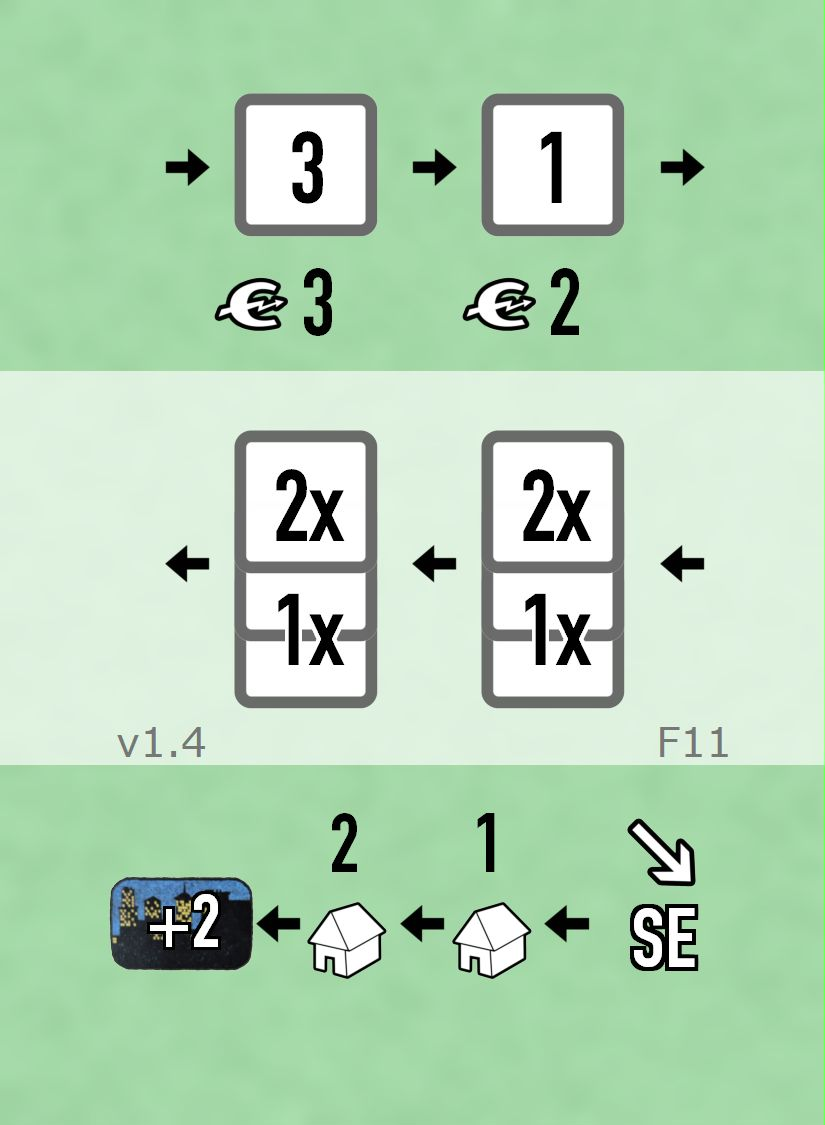
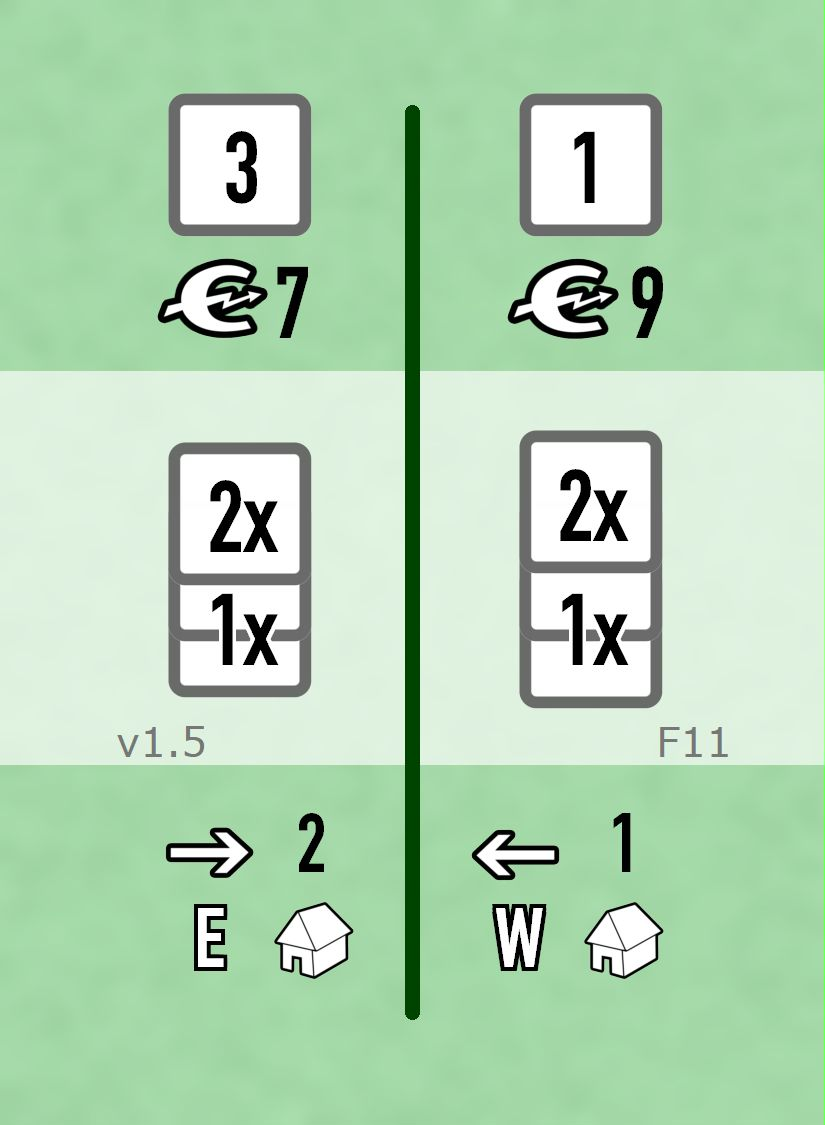
New ruleset to try IRL. Completely breaks the simulator

diff --git a/src/bin/analyze.py b/src/bin/analyze.py
@@ -41,7 +41,7 @@ def analyze_board(map):
         'player_count_report': player_details
     })
 
-def count_turns(deck):
+def count_turns(build_index,deck):
     deck.pop()
     deck.pop()
     deck.pop()
@@ -52,20 +52,20 @@ def count_turns(deck):
     build_count = 0
     while current_score < end_game_score:
         card = deck[card_index % len(deck)]
-        current_score += card.score
-        build_count += card.build_count
+        current_score += card.city_build[build_index]
+        build_count += card.city_build[build_index]
         card_index += 1
         turns += 1
     return turns,build_count
 
 def analyze_automa():
     cards = [model.AutomaCard(xx) for xx in generate.create_cards()]
-    low_score_turns,low_score_build_count = count_turns(sorted(cards,key=lambda xx:xx.score))
-    high_score_turns,high_score_build_count = count_turns(sorted(cards,key=lambda xx:xx.score,reverse=True))
-    low_build_turns,low_build_build_count = count_turns(sorted(cards,key=lambda xx:xx.build_count))
-    high_build_turns,high_build_build_count = count_turns(sorted(cards,key=lambda xx:xx.build_count,reverse=True))
+    low_build_1_turns,low_build_1_count = count_turns(0,sorted(cards,key=lambda xx:xx.city_build[0]))
+    high_build_1_turns,high_build_1_count = count_turns(0,sorted(cards,key=lambda xx:xx.city_build[0],reverse=True))
+    low_build_2_turns,low_build_2_count = count_turns(1,sorted(cards,key=lambda xx:xx.city_build[1]))
+    high_build_2_turns,high_build_2_count = count_turns(1,sorted(cards,key=lambda xx:xx.city_build[1],reverse=True))
 
-    print("Market distribution")
+    #print("Market distribution")
     hits = {}
     for market in automa_card_info.manual_plant_choices:
         for hit in market:
@@ -73,24 +73,22 @@ def analyze_automa():
                 hits[hit] = 0
             hits[hit] += 1
 
-    import pprint
-    pprint.pprint(hits,width=2)
+    #import pprint
+    #pprint.pprint(hits,width=2)
 
-    print("Build distribution")
-    hits = {}
-    for manual_build in automa_card_info.manual_builds:
-        for hit in manual_build:
-            if not hit in hits:
-                hits[hit] = 0
-            hits[hit] += 1
-    import pprint
-    pprint.pprint(hits,width=2)
+    #print("Build distribution")
+    #hits = {}
+    #for manual_build in automa_card_info.manual_builds:
+    #    for hit in manual_build:
+    #        if not hit in hits:
+    #            hits[hit] = 0
+    #        hits[hit] += 1
+    #import pprint
+    #pprint.pprint(hits,width=2)
     print(f"The game ends when someone scores 17 points")
-    print(f"The longest the automa will take is {low_score_turns} turns")
-    print(f"The shortest the automa will take is {high_score_turns} turns")
-    print(f"The automa will place at minimum {low_build_build_count} buildings")
-    print(f"The automa will place at maximum {high_build_build_count} buildings")
+    print(f"Automa 1 will take at least {high_build_1_turns} turns and at most {low_build_1_turns}")
+    print(f"Automa 2 will take at least {high_build_2_turns} turns and at most {low_build_2_turns}")
 
-analyze_board(board.united_states_of_america)
-analyze_board(board.germany)
+#analyze_board(board.united_states_of_america)
+#analyze_board(board.germany)
 analyze_automa()

diff --git a/src/generate.py b/src/generate.py
@@ -9,9 +9,6 @@ import src.model as model
 def create_cards():
     debug.sim("==Building automa cards==")
 
-    random.shuffle(automa_card_info.ante)
-    random.shuffle(automa_card_info.compass)
-
     cards_in_deck = 24
     cards = []
     for ii in range(0,cards_in_deck):
@@ -19,42 +16,19 @@ def create_cards():
         market = list(automa_card_info.manual_plant_choices[ii % len(automa_card_info.manual_plant_choices)])
         card['market1'] = market[0]
         card['market2'] = market[1]
-
-        passer = None if not -1 in market else market.index(-1) + 1
-        base_ante = automa_card_info.ante[ii % len(automa_card_info.ante)]
-        ante_delta = 1
-        if base_ante > 5:
-            ante_delta = 3
-        if base_ante == 20:
-            ante_delta = 4
-        antes = []
-        for jj in range(0,len(market)):
-            next_ante = base_ante - (ante_delta * jj)
-            if next_ante < 0:
-                next_ante = 0
-            antes.append(next_ante)
-        antes.reverse()
-        card['ante1'] = antes[0]
-        card['ante2'] = antes[1]
-        if passer:
-            if passer == 1 or passer == 2:
-                card['ante1'] = antes[1]
-                card['ante2'] = 0
-            if passer == 3 or passer == 4:
-                card['ante1'] = 0
-                card['ante2'] = antes[1]
-        card['compass_index'] = automa_card_info.compass[ii % len(automa_card_info.compass)]
-        compass = model.get_compass(automa_card_info.compass[ii % len(automa_card_info.compass)])
-        card['compass_rotation'] = compass[0]
-        card['compass_direction'] = compass[1]
-        card['compass_display'] = f'{compass[1]}'
+        ante = automa_card_info.manual_antes[ii % len(automa_card_info.manual_antes)]
+        card['ante1'] = ante[0]
+        card['ante2'] = ante[1]
+        card['compass_index_1'] = automa_card_info.compass[ii % len(automa_card_info.compass)]
+        card['compass_direction_1'] = model.get_compass(card['compass_index_1'])[1]
+        card['compass_index_2'] = automa_card_info.compass[(ii + 4) % len(automa_card_info.compass)]
+        card['compass_direction_2'] = model.get_compass(card['compass_index_2'])[1]
         build = automa_card_info.manual_builds[ii % len(automa_card_info.manual_builds)]
         card['build1'] = build[0]
         card['build2'] = build[1]
         resources = automa_card_info.manual_resources[ii % len(automa_card_info.manual_resources)]
         card['resource1'] = resources[0]
         card['resource2'] = resources[1]
-        card['score'] = automa_card_info.manual_scores[ii % len(automa_card_info.manual_scores)]
         card['id'] = f'F{ii+1:02}'
         cards.append(card)
     return cards
@@ -68,11 +42,10 @@ def write_cards_to_csv(cards):
         'ante2',
         'resource1',
         'resource2',
-        'compass_index',
-        'compass_direction',
-        'compass_display',
-        'compass_rotation',
-        'score',
+        'compass_index_1',
+        'compass_direction_1',
+        'compass_index_2',
+        'compass_direction_2',
         'build1',
         'build2'
     ]

diff --git a/src/simulate.py b/src/simulate.py
@@ -31,9 +31,6 @@ def play_game(cards,map,player_count):
     automa = model.Automa(player_count,cards)
     human = model.Human()
 
-    human_score = 0
-    automa_score = 0
-    human_player_order = 3
     turn_count = 0
     first_turn = True
     step = 1
@@ -44,10 +41,17 @@ def play_game(cards,map,player_count):
         'trash':{'human':0,'automa':0,'refill':start_resource_amounts[2]},
         'nuke':{'human':0,'automa':0,'refill':start_resource_amounts[3]}
     }
-    automa_cities_built = 0
+    human_player_order = 3
+    automa_1_player_order = 1
+    automa_2_player_order = 2
+    automa_1_cities_built = 0
+    automa_2_cities_built = 0
     human_cities_built = 0
     debug.sim("Entering sim loop")
-    while automa_score < game_map.end_game_city_count and human_score < game_map.end_game_city_count:
+    player_order_sort = [{'name':'player','score':0,'plant':0},{'name':'automa_1','score':0,'plant':0},{'name':'automa_2','score':0,'plant':0}]
+    while automa_1_cities_built < game_map.end_game_city_count \
+        and automa_2_cities_built < game_map.end_game_city_count \
+        and human_cities_built < game_map.end_game_city_count:
         debug.sim(f"\n\n\n=-=-=-=-TURN {turn_count + 1 }-=-=-=-=")
 
         automa.draw_cards()
@@ -58,6 +62,10 @@ def play_game(cards,map,player_count):
         debug.sim("Determining player order")
         # Phase 1 - Player Order
         if not first_turn:
+            for ii in range(0,len(player_order_sort)):
+                entry = player_order_sort[ii]
+                #if entry.name == 'player'
+            #if human_cities_built
             if automa_score > human_score:
                 human_player_order = player_count
             if human_score > automa_score:

diff --git a/src/automa_card_info.py b/src/automa_card_info.py
@@ -1,6 +1,34 @@
 compass = [1,2,3,4,5,6,7,8]
 
-ante = [3,3,3,7,7,7,7,10,10,10,10,10,10,10,14,14,14,14,14,14,18,18,18,20]
+manual_antes = [
+    [0,1],
+    [1,0],
+    [0,3],
+    [3,0],
+    [5,0],
+    [0,5],
+
+    [5,3],
+    [3,5],
+    [7,5],
+    [5,7],
+    [9,7],
+    [7,9],
+
+    [3,1],
+    [1,3],
+    [3,9],
+    [9,3],
+    [4,6],
+    [6,4],
+
+    [8,10],
+    [10,8],
+    [13,11],
+    [11,13],
+    [15,8],
+    [8,15]
+]
 
 manual_plant_choices = [
     [1,2],
@@ -33,17 +61,17 @@ manual_plant_choices = [
 
 ]
 manual_builds = [
-    [2,2],
-    [2,2],
-    [3,0],
-    [3,0],
-    [0,3],
-    [0,3],
+    [1,2],
+    [1,2],
+    [2,1],
+    [2,1],
+    [0,2],
+    [0,1],
 
     [1,2],
     [2,2],
-    [1,3],
-    [3,1],
+    [1,1],
+    [1,1],
     [2,1],
     [2,1],
 
@@ -58,38 +86,8 @@ manual_builds = [
     [2,2],
     [2,2],
     [2,2],
-    [2,2],
-    [2,2],
-]
-
-manual_scores = [
-    2,
-    2,
-    1,
-    2,
-    2,
-    2,
-
-    2,
-    2,
-    2,
-    2,
-    2,
-    2,
-
-    2,
-    2,
-    2,
-    2,
-    2,
-    2,
-
-    2,
-    2,
-    2,
-    3,
-    3,
-    3,
+    [2,3],
+    [2,1],
 ]
 
 manual_resources = [

diff --git a/src/model/automa.py b/src/model/automa.py
@@ -9,7 +9,6 @@ class AutomaCard:
         self.ante = [definition['ante1'],definition['ante2']]
         self.city_build = [definition['build1'],definition['build2']]
         self.build_direction = definition['compass_direction']
-        self.score = int(definition['score'])
         self.build_count = sum(self.city_build)
         # TODO Actually use the resource skip when indicated
 

diff --git a/src/bin/main.py b/src/bin/main.py
@@ -12,4 +12,4 @@ import src.simulate as simulate
 
 cards = generate.create_cards()
 generate.write_cards_to_csv(cards)
-simulate.play_games(cards, GAMES_TO_SIMULATE, MAP, PLAYER_COUNT)
+#simulate.play_games(cards, GAMES_TO_SIMULATE, MAP, PLAYER_COUNT)
